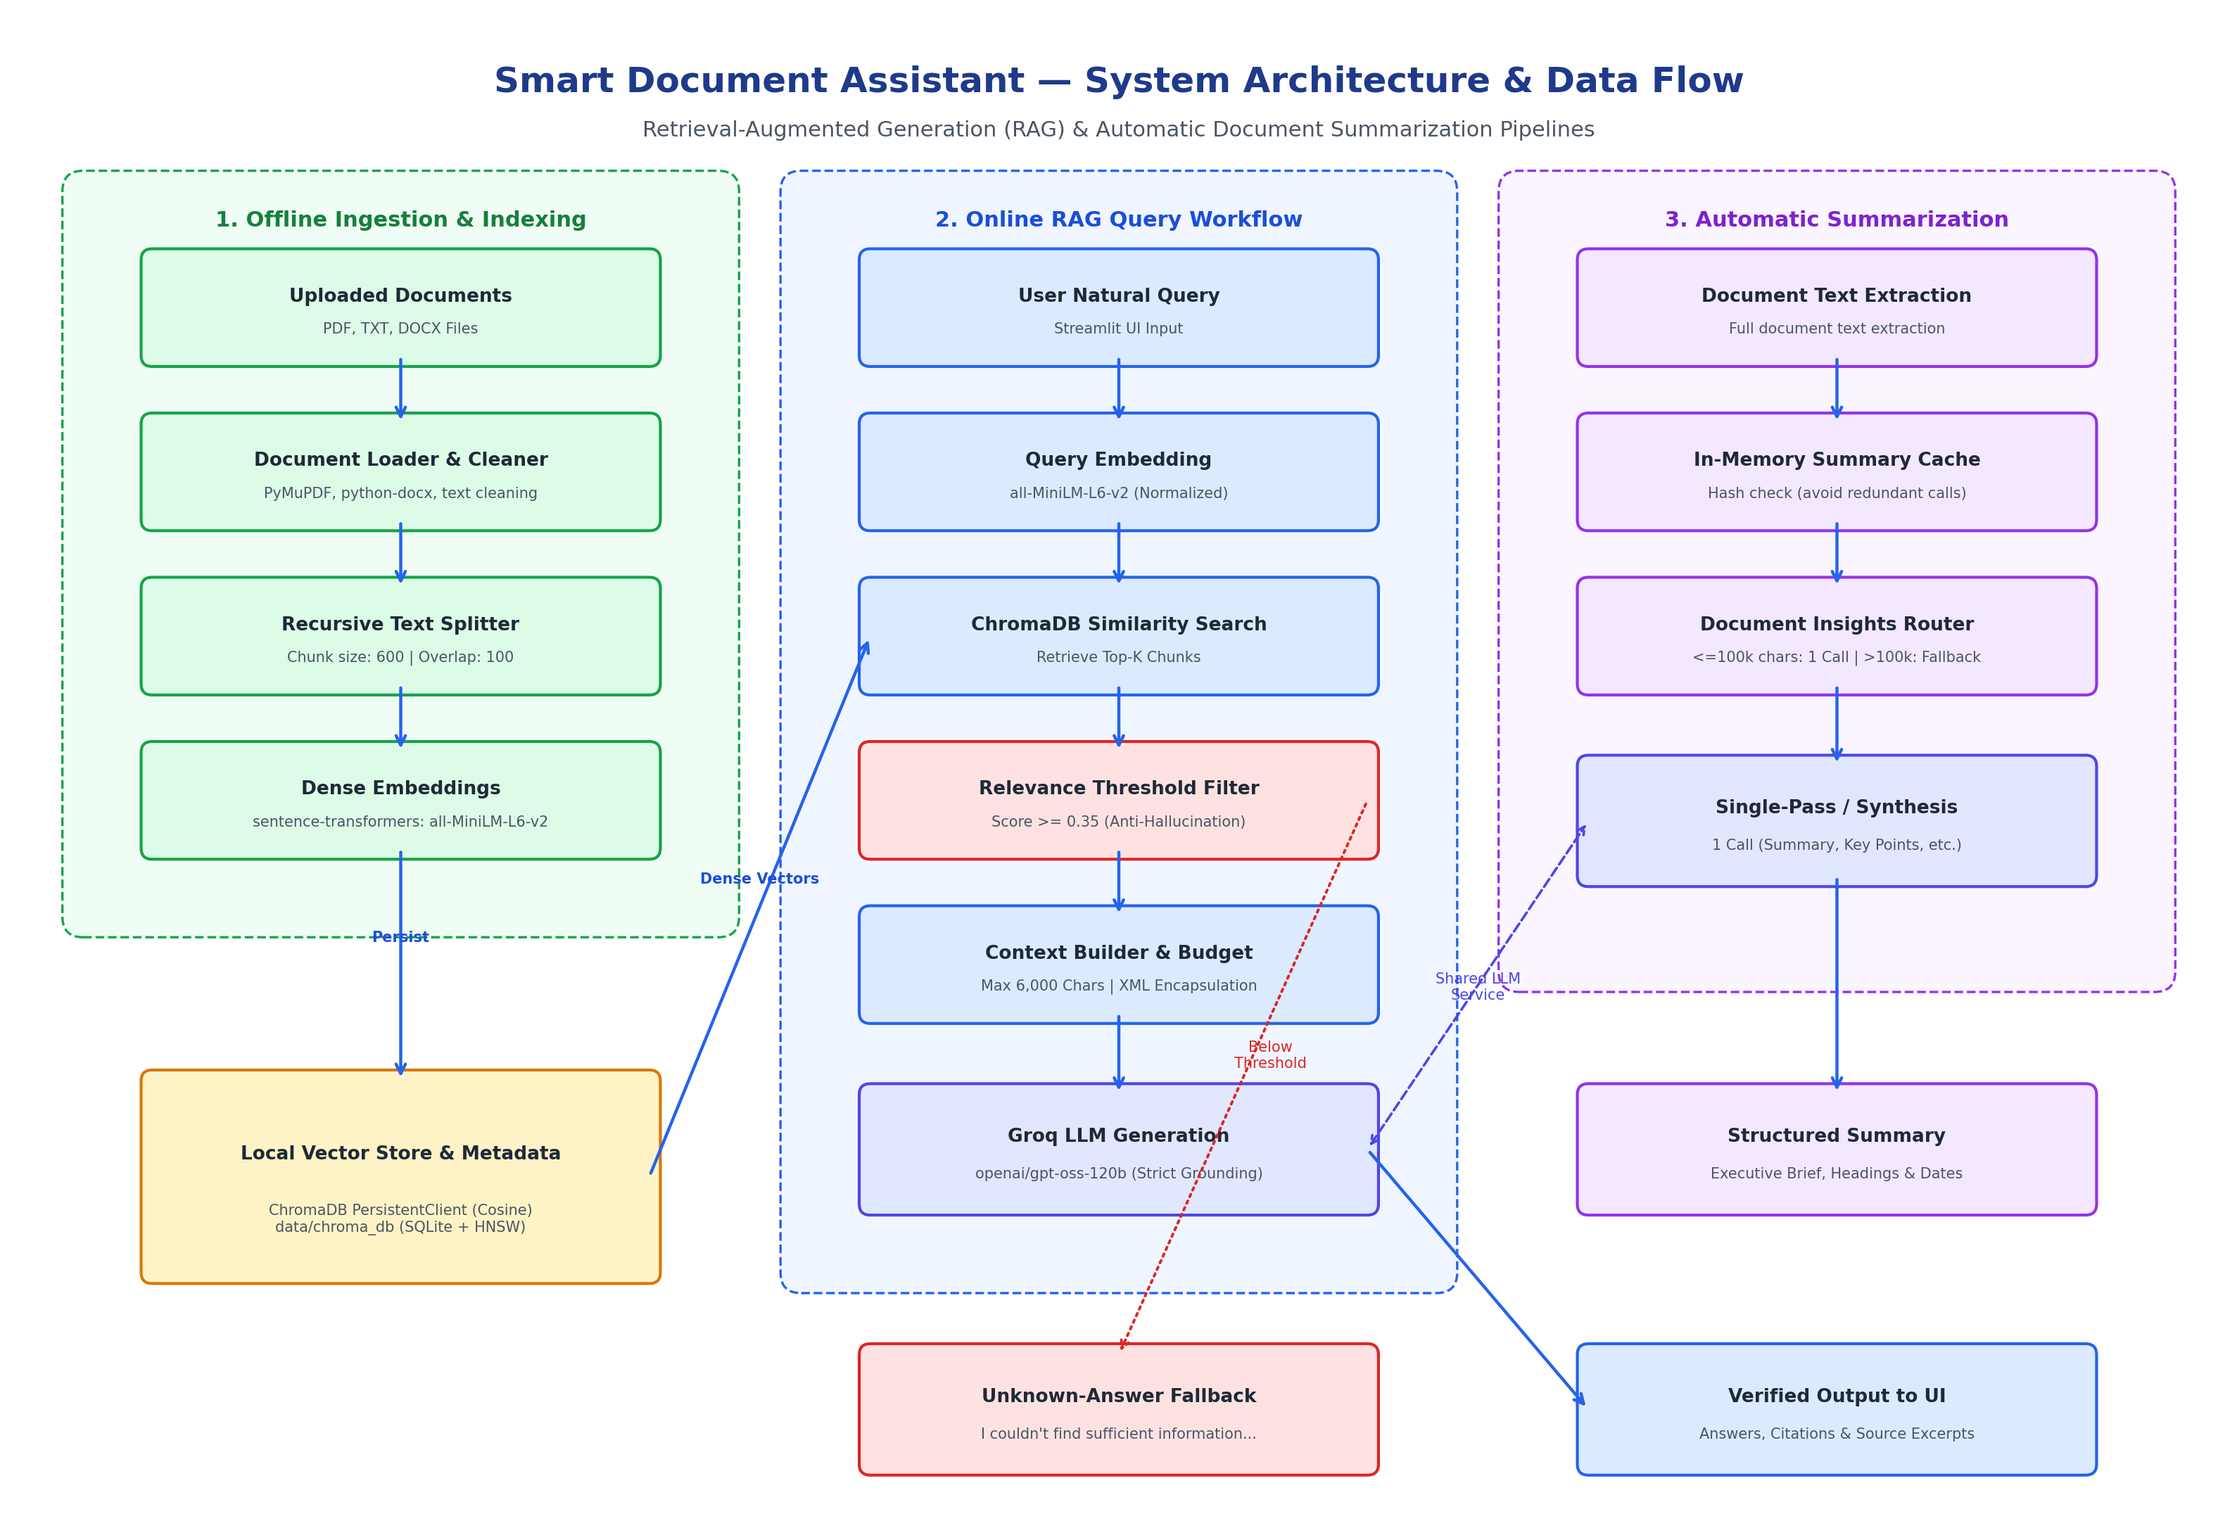
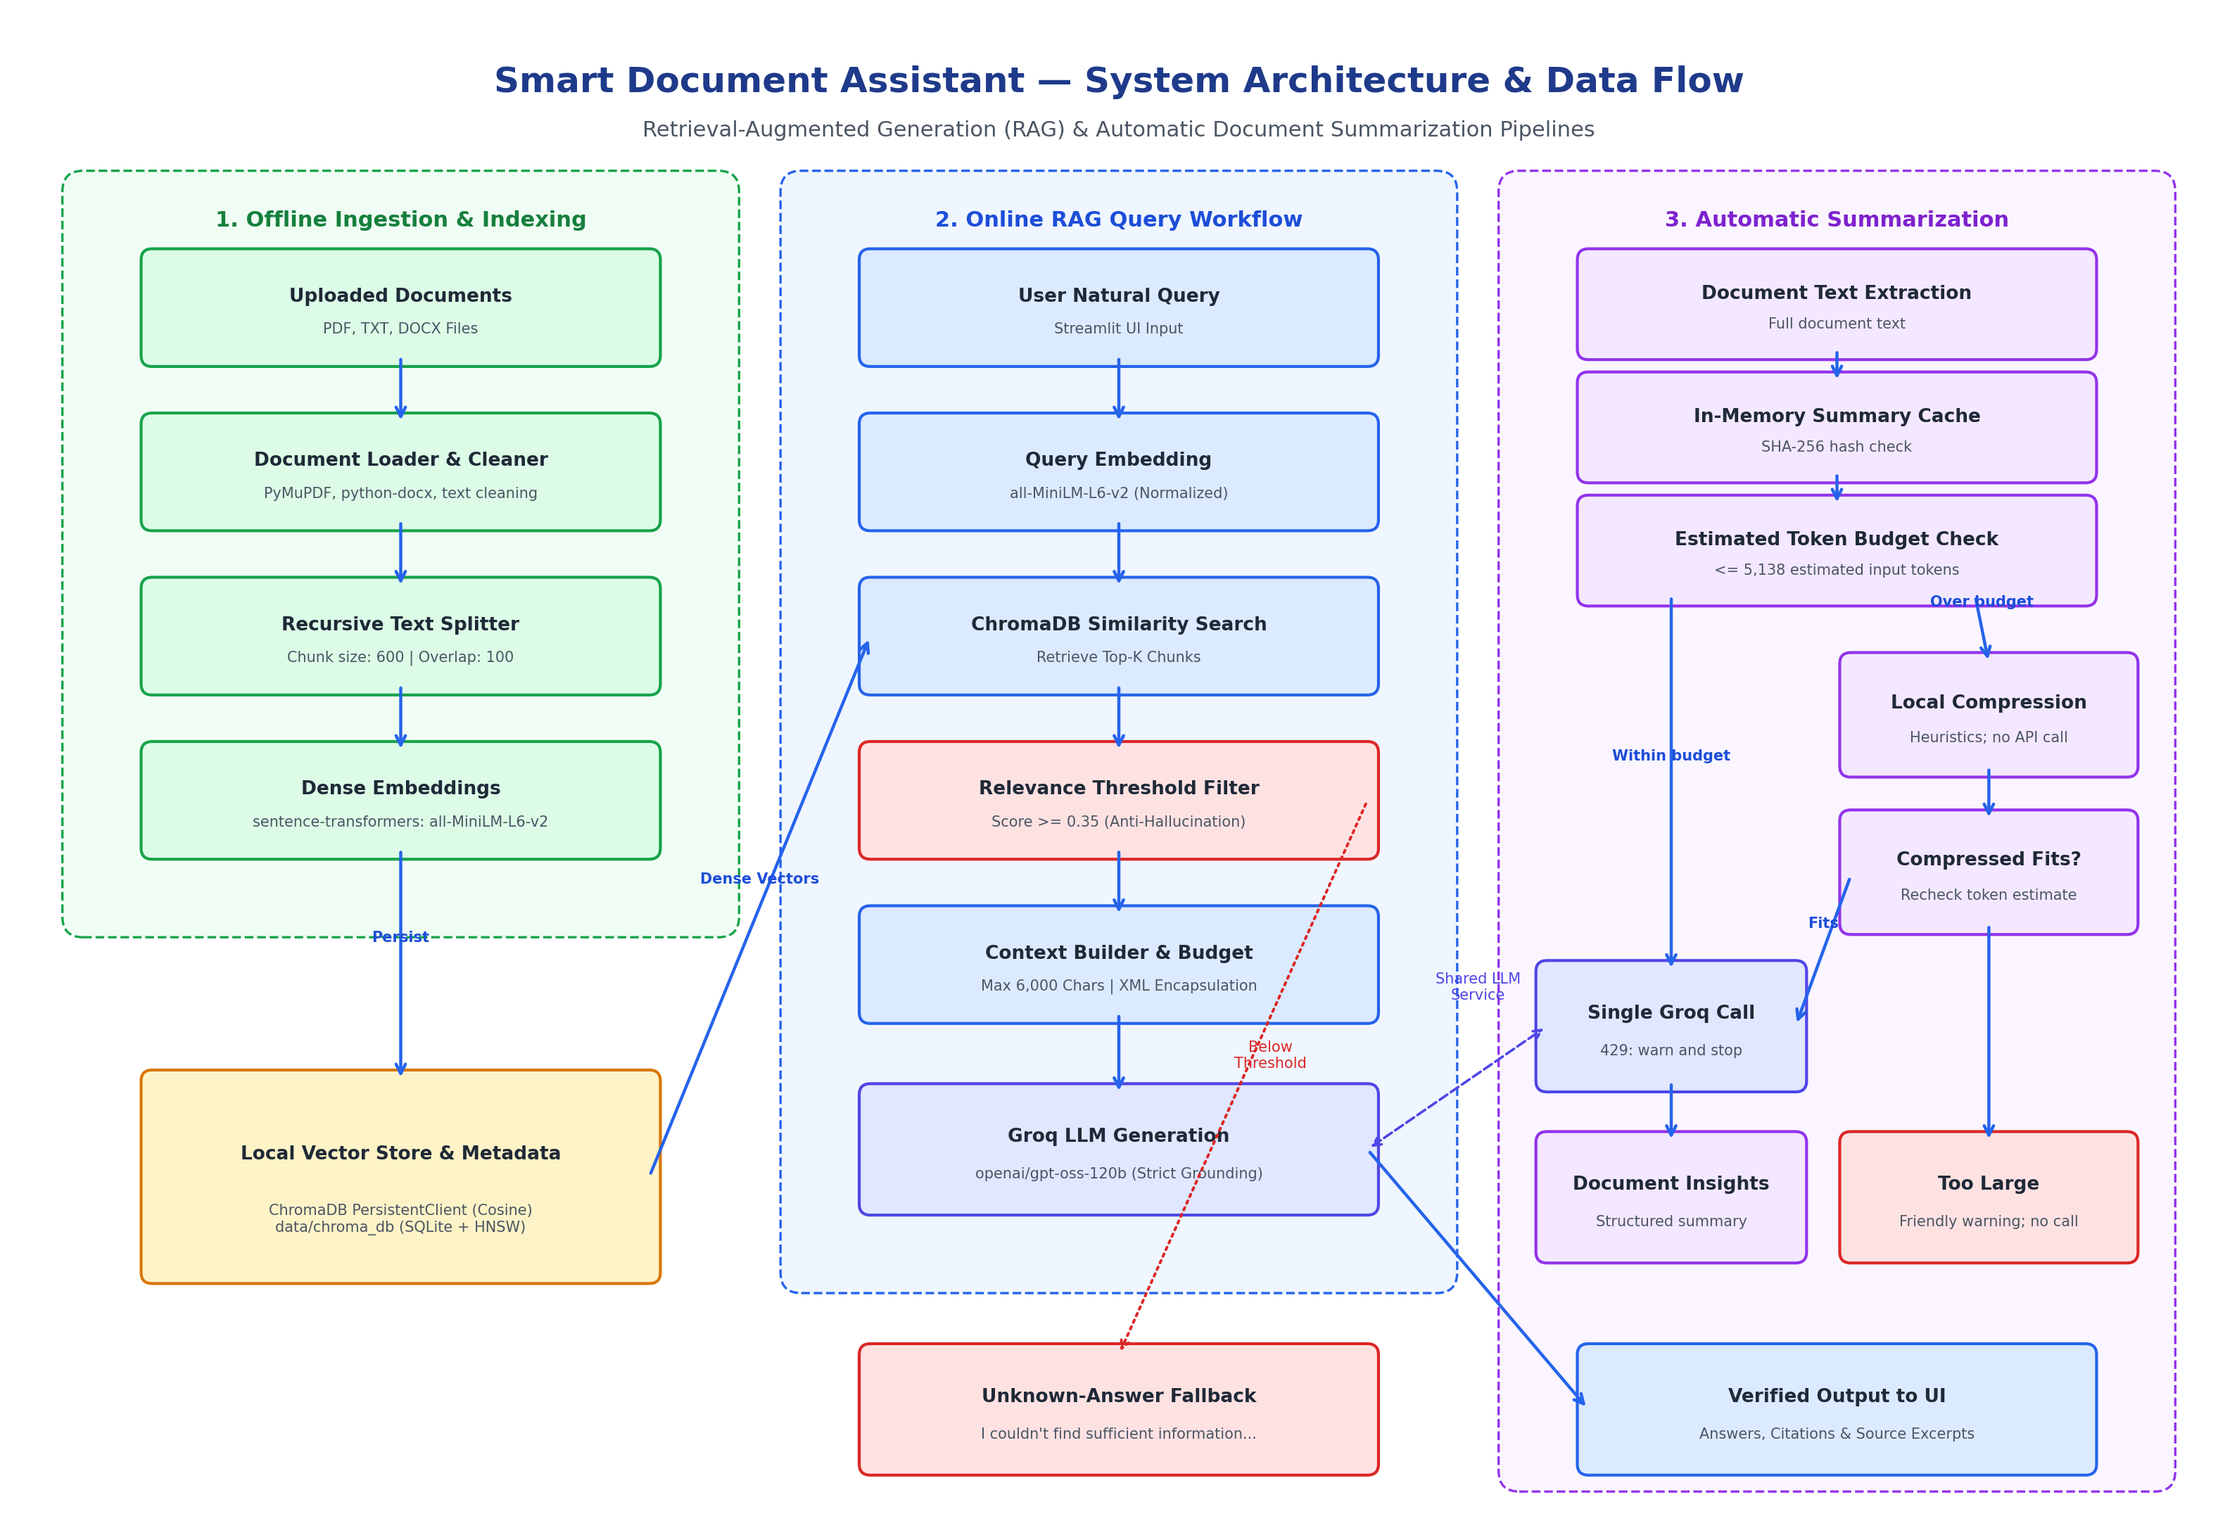
Update architecture and summarization documentation

Changed region(s): [[0.6851, 0.1872, 0.9654, 0.8426], [0.9343, 0.4057, 0.9654, 0.4369]]

diff --git a/docs/generate_diagram.py b/docs/generate_diagram.py
@@ -1,8 +1,13 @@
 """Script to generate high-resolution architecture diagram docs/architecture.png."""
 
 from pathlib import Path
+import sys
+
 import matplotlib.pyplot as plt
 import matplotlib.patches as patches
+
+sys.path.insert(0, str(Path(__file__).resolve().parent.parent))
+from config.settings import SUMMARY_SAFE_INPUT_TOKENS
 
 # Ensure docs directory exists
 docs_dir = Path("docs")
@@ -138,9 +143,9 @@ ax.text(
 )
 
 summ_bg = patches.FancyBboxPatch(
-    (10.9, 4.0),
+    (10.9, 0.35),
     4.6,
-    5.7,
+    9.35,
     boxstyle="round,pad=0.15",
     facecolor="#FAF5FF",
     edgecolor="#9333EA",
@@ -218,27 +223,41 @@ ax.annotate(
 ax.text(9.1, 3.3, "Below\nThreshold", fontsize=7.5, color="#DC2626", ha="center")
 
 # 3. Summarization Nodes
-draw_box(11.4, 8.5, 3.6, 0.7, "Document Text Extraction", "Full document text extraction", "#F3E8FF", "#9333EA")
-draw_box(11.4, 7.3, 3.6, 0.7, "In-Memory Summary Cache", "Hash check (avoid redundant calls)", "#F3E8FF", "#9333EA")
-draw_box(11.4, 6.1, 3.6, 0.7, "Document Insights Router", "<=100k chars: 1 Call | >100k: Fallback", "#F3E8FF", "#9333EA")
-draw_box(11.4, 4.7, 3.6, 0.8, "Single-Pass / Synthesis", "1 Call (Summary, Key Points, etc.)", "#E0E7FF", "#4F46E5")
+draw_box(11.4, 8.55, 3.6, 0.65, "Document Text Extraction", "Full document text", "#F3E8FF", "#9333EA")
+draw_box(11.4, 7.65, 3.6, 0.65, "In-Memory Summary Cache", "SHA-256 hash check", "#F3E8FF", "#9333EA")
+draw_box(
+    11.4,
+    6.75,
+    3.6,
+    0.65,
+    "Estimated Token Budget Check",
+    f"<= {SUMMARY_SAFE_INPUT_TOKENS:,} estimated input tokens",
+    "#F3E8FF",
+    "#9333EA",
+)
+draw_box(13.3, 5.5, 2.0, 0.75, "Local Compression", "Heuristics; no API call", "#F3E8FF", "#9333EA")
+draw_box(13.3, 4.35, 2.0, 0.75, "Compressed Fits?", "Recheck token estimate", "#F3E8FF", "#9333EA")
+draw_box(11.1, 3.2, 1.8, 0.8, "Single Groq Call", "429: warn and stop", "#E0E7FF", "#4F46E5")
+draw_box(11.1, 1.95, 1.8, 0.8, "Document Insights", "Structured summary", "#F3E8FF", "#9333EA")
+draw_box(13.3, 1.95, 2.0, 0.8, "Too Large", "Friendly warning; no call", "#FEE2E2", "#DC2626")
 
-draw_arrow(13.2, 8.5, 13.2, 8.0)
-draw_arrow(13.2, 7.3, 13.2, 6.8)
-draw_arrow(13.2, 6.1, 13.2, 5.5)
+draw_arrow(13.2, 8.55, 13.2, 8.3)
+draw_arrow(13.2, 7.65, 13.2, 7.4)
+draw_arrow(12.0, 6.75, 12.0, 4.0, "Within budget")
+draw_arrow(14.2, 6.75, 14.3, 6.25, "Over budget")
+draw_arrow(14.3, 5.5, 14.3, 5.1)
+draw_arrow(13.3, 4.7, 12.9, 3.6, "Fits")
+draw_arrow(14.3, 4.35, 14.3, 2.75)
+draw_arrow(12.0, 3.2, 12.0, 2.75)
 
 # LLM connection to Summarizer
 ax.annotate(
     "",
-    xy=(11.4, 5.1),
+    xy=(11.1, 3.6),
     xytext=(9.8, 2.7),
     arrowprops=dict(arrowstyle="<->", color="#4F46E5", lw=1.3, linestyle="--"),
 )
 ax.text(10.6, 3.8, "Shared LLM\nService", fontsize=7.5, color="#4F46E5", ha="center")
-
-# Final Outputs
-draw_box(11.4, 2.3, 3.6, 0.8, "Structured Summary", "Executive Brief, Headings & Dates", "#F3E8FF", "#9333EA")
-draw_arrow(13.2, 4.7, 13.2, 3.1)
 
 draw_box(11.4, 0.4, 3.6, 0.8, "Verified Output to UI", "Answers, Citations & Source Excerpts", "#DBEAFE", "#2563EB")
 draw_arrow(9.8, 2.7, 11.4, 0.8)

diff --git a/app.py b/app.py
@@ -482,11 +482,16 @@ with tab_arch:
             end
 
             subgraph Summarization["Document Summarization Pipeline"]
-                DocText[Full Document Text] --> CheckLen{"<= 100k Chars?"}
-                CheckLen -- "Yes" --> SinglePass[Single-Pass LLM Call: 1 Request]
-                CheckLen -- "No" --> MapReduce[Fallback Map-Reduce: Stops on 429]
-                SinglePass --> DocSummary([Document Insights: Summary, Key Points, Numbers, Action Items])
-                MapReduce --> DocSummary
+                DocText --> CacheCheck{"Summary cached?"}
+                CacheCheck -- "Yes" --> DocSummary([Document Insights: Summary, Key Points, Numbers, Action Items])
+                CacheCheck -- "No" --> TokenBudget{"Estimated input <= safe budget?\n(Default: 5,138 tokens)"}
+                TokenBudget -- "Within budget" --> GroqSummary[Single Groq Summary Call]
+                TokenBudget -- "Over budget" --> LocalCompress[Local Heuristic Compression: No API Call]
+                LocalCompress --> CompressedFits{"Compressed text within budget?"}
+                CompressedFits -- "Yes" --> GroqSummary
+                CompressedFits -- "No" --> TooLarge[User-Friendly Warning: No API Call]
+                GroqSummary -- "Valid response" --> DocSummary
+                GroqSummary -- "429 / rate limit" --> RateLimitStop[Return Warning; Stop Without Retry]
             end
         ```
         """

diff --git a/docs/architecture.md b/docs/architecture.md
@@ -9,7 +9,7 @@ This document details the architectural design, component interactions, and data
 The system is organized into three decoupled pipelines:
 1. **Document Ingestion & Indexing Pipeline (Offline/Batch)**: Ingests documents (PDF, TXT, DOCX), performs text extraction and cleaning, segments text recursively with metadata preservation, generates normalized dense embeddings, and stores them in a local persistent ChromaDB vector store.
 2. **Retrieval-Augmented Generation (RAG) Pipeline (Online)**: Takes user queries, embeds them, performs similarity search in ChromaDB, filters by relevance threshold, bounds context length, wraps context in anti-injection boundaries, and invokes Groq (`openai/gpt-oss-120b`) to produce factual answers with precise source citations.
-3. **Automatic Document Summarization Pipeline**: Takes complete document text, provides single-pass structured insights (Summary, Key Points, Important Numbers, Action Items) for small/medium documents in a single API call, and provides fallback section map-reduce with immediate rate-limit abortion for massive documents, complete with SHA-256 caching.
+3. **Automatic Document Summarization Pipeline**: Checks a configurable estimated-token input budget, summarizes fitting documents with one Groq call, and locally compresses larger documents before making at most one call. If compressed text remains over budget, it returns a user-friendly warning without calling the API. Rate-limit errors return immediately without retries. Successful summaries are cached by SHA-256.
 
 ---
 
@@ -67,20 +67,28 @@ flowchart TD
         SelectDoc["Selected Document"]
         CacheCheck{"In Cache?"}
         CachedSumm["Return Cached Summary"]
-        DocLengthCheck{"Length > 100k chars?"}
-        SinglePass["Single-Pass Groq Summary (1 API Call)"]
-        MapReduce["Fallback Map-Reduce:\n(Stops on 429 Error)"]
+        TokenBudgetCheck{"Estimated input <= safe token budget?\n(Default: 5,138 tokens)"}
+        LocalCompress["Local Heuristic Compression\n(No LLM calls)"]
+        CompressedFits{"Compressed input within budget?"}
+        GroqSummary["Single Groq Summary Call\n(At most one request)"]
+        TooLargeWarning["User-Friendly Too-Large Warning\n(No API call)"]
+        RateLimitStop["Return Rate-Limit Warning\n(Stop immediately; no retry)"]
         SaveCache["Cache Summary in Memory"]
         FinalSummary["Structured Summary Output\n(Summary, Key Points, Numbers, Action Items)"]
 
         SelectDoc --> CacheCheck
         CacheCheck -- "Yes" --> CachedSumm
-        CacheCheck -- "No" --> DocLengthCheck
-        DocLengthCheck -- "<= 100k chars" --> SinglePass
-        DocLengthCheck -- "> 100k chars" --> MapReduce
-        SinglePass --> SaveCache
-        MapReduce --> SaveCache
+        CacheCheck -- "No" --> TokenBudgetCheck
+        TokenBudgetCheck -- "Within budget" --> GroqSummary
+        TokenBudgetCheck -- "Over budget" --> LocalCompress
+        LocalCompress --> CompressedFits
+        CompressedFits -- "Yes" --> GroqSummary
+        CompressedFits -- "No" --> TooLargeWarning
+        GroqSummary -- "Valid response" --> SaveCache
+        GroqSummary -- "429 / rate limit" --> RateLimitStop
         SaveCache --> FinalSummary
+        TooLargeWarning --> UI
+        RateLimitStop --> UI
     end
 
     %% Connections to UI
@@ -99,8 +107,8 @@ flowchart TD
 
     class UI,User primary;
     class Chroma,Uploads storage;
-    class GroqLLM,SinglePass,MapReduce llm;
-    class UnknownResp reject;
+    class GroqLLM,GroqSummary llm;
+    class UnknownResp,TooLargeWarning,RateLimitStop reject;
 ```
 
 ---
@@ -126,3 +134,11 @@ flowchart TD
 3. **Untrusted Data Boundaries**: Context excerpts are explicitly encapsulated within `<document_context>` XML tags. The system prompt instructs the model to ignore instructions inside excerpts, defending against prompt injection.
 4. **Contradiction Resolution**: The system instructs the model to identify conflicting statements across documents and cite both sources rather than arbitrarily selecting one.
 5. **No Hallucinated Citations**: Source attribution is constructed deterministically from retrieved `TextChunk` metadata objects, not generated freely by the LLM.
+
+### 3.4 Token-Budget-Aware Document Insights
+- **Default budget**: `SUMMARY_SAFE_INPUT_TOKENS` is calculated as `SUMMARY_SAFE_TOKEN_BUDGET - SUMMARY_MAX_OUTPUT_TOKENS - SUMMARY_PROMPT_OVERHEAD_TOKENS`, which is 5,138 input tokens with the current defaults (6,000 - 512 - 350). These settings can be overridden with environment variables.
+- `GROQ_FREE_TPM_LIMIT` is also configured (8,000 by default), but it is not currently used to calculate the summarizer's safe input budget.
+- **Estimation**: The summarizer estimates tokens as the larger of `int(word_count * 1.35)` and `character_count // 4`.
+- **Compression path**: If the original text exceeds the safe input budget, local heuristics retain headings and high-value metrics, dates, obligations, and topic sentences, then sample/refine if needed. This stage makes no LLM calls.
+- **API calls**: Text that fits directly, or locally compressed text that fits, is sent for one Groq summary request. If compression still exceeds the budget, a user-friendly warning is returned without an API call.
+- **Rate limits**: Groq rate-limit responses are returned as warnings immediately. The summarizer makes no retry or follow-up summary call and does not cache error responses.

diff --git a/README.md b/README.md
@@ -60,7 +60,7 @@ The Smart Document Assistant addresses this by pairing a fast local dense embedd
   > *"I couldn't find sufficient information to answer this question in the uploaded documents."*
 * **Verifiable Source Attribution**: Every response provides expandable source cards displaying the exact filename, page number (or N/A indicator for plain text), cosine similarity score, and verbatim excerpt.
 * **Persistent Local Vector Database**: Built on ChromaDB `PersistentClient` with persistent SQLite/HNSW indexing, eliminating re-embedding on app restarts.
-* **Automatic Document Summarization**: Independent creative feature offering single-pass structured insights (Summary, Key Points, Important Numbers, Action Items) for small and medium documents up to 100,000 characters (~25–30 pages) in a single API call, with graceful section-based fallback and immediate rate-limit abortion for exceptionally large documents. Includes SHA-256 caching to avoid redundant API costs.
+* **Automatic Document Summarization**: Produces structured insights (Summary, Key Points, Important Numbers, Action Items) using a default safe input budget of 5,138 estimated tokens. Documents that fit use one Groq call; larger documents are locally compressed with heuristics and sent in one Groq call only if the compressed text fits. If it remains over budget, the app returns a user-friendly warning without an API call. Rate-limit errors stop immediately without retries. SHA-256 caching avoids redundant API calls.
 * **Interactive UI**: Built with Streamlit, providing multi-document upload, sample data loading with 1 click, document deletion, conversation history, and an internal chunk inspector.
 
 ---
@@ -103,7 +103,7 @@ The system cleanly separates three distinct workflows:
 2. **Online RAG Query Pipeline**:
    `User Query` → `Query Embedding` → `ChromaDB Cosine Search` → `Relevance Filter (>= 0.35)` → `Context Bounding (Max 6,000 chars)` → `Anti-Injection Prompt` → `Groq (openai/gpt-oss-120b)` → `Grounded Answer + Source Citations`.
 3. **Automatic Document Summarization Pipeline**:
-   `Selected Document` → `SHA-256 Cache Check` → `Length Router (<= 100k vs > 100k chars)` → `Single Pass LLM Call OR Section Map-Reduce with 429 Early-Exit` → `Structured Document Insights (Summary, Key Points, Numbers, Action Items)`.
+   `Selected Document` → `SHA-256 Cache Check` → `Estimated Token-Budget Check (5,138 input tokens by default)` → `One-Pass Groq Call if Within Budget OR Local Heuristic Compression` → `One Groq Call if Compressed Text Fits OR User Warning with No API Call` → `Structured Document Insights (Summary, Key Points, Numbers, Action Items)`. Rate-limit errors return immediately without retrying.
 
 *An editable Mermaid diagram is available in [`docs/architecture.md`](docs/architecture.md).*
 
@@ -174,7 +174,7 @@ smart-document-assistant/
 │   ├── retriever.py           # Semantic search & relevance threshold filtering
 │   ├── llm_service.py         # Groq LLM integration & strict prompts
 │   ├── rag_pipeline.py        # End-to-end RAG workflow orchestrator
-│   ├── summarizer.py          # Document summarizer with map-reduce & cache
+│   ├── summarizer.py          # Token-budget-aware summarizer with local compression & cache
 │   └── source_formatter.py    # Citation and excerpt formatter
 ├── tests/
 │   ├── __init__.py
